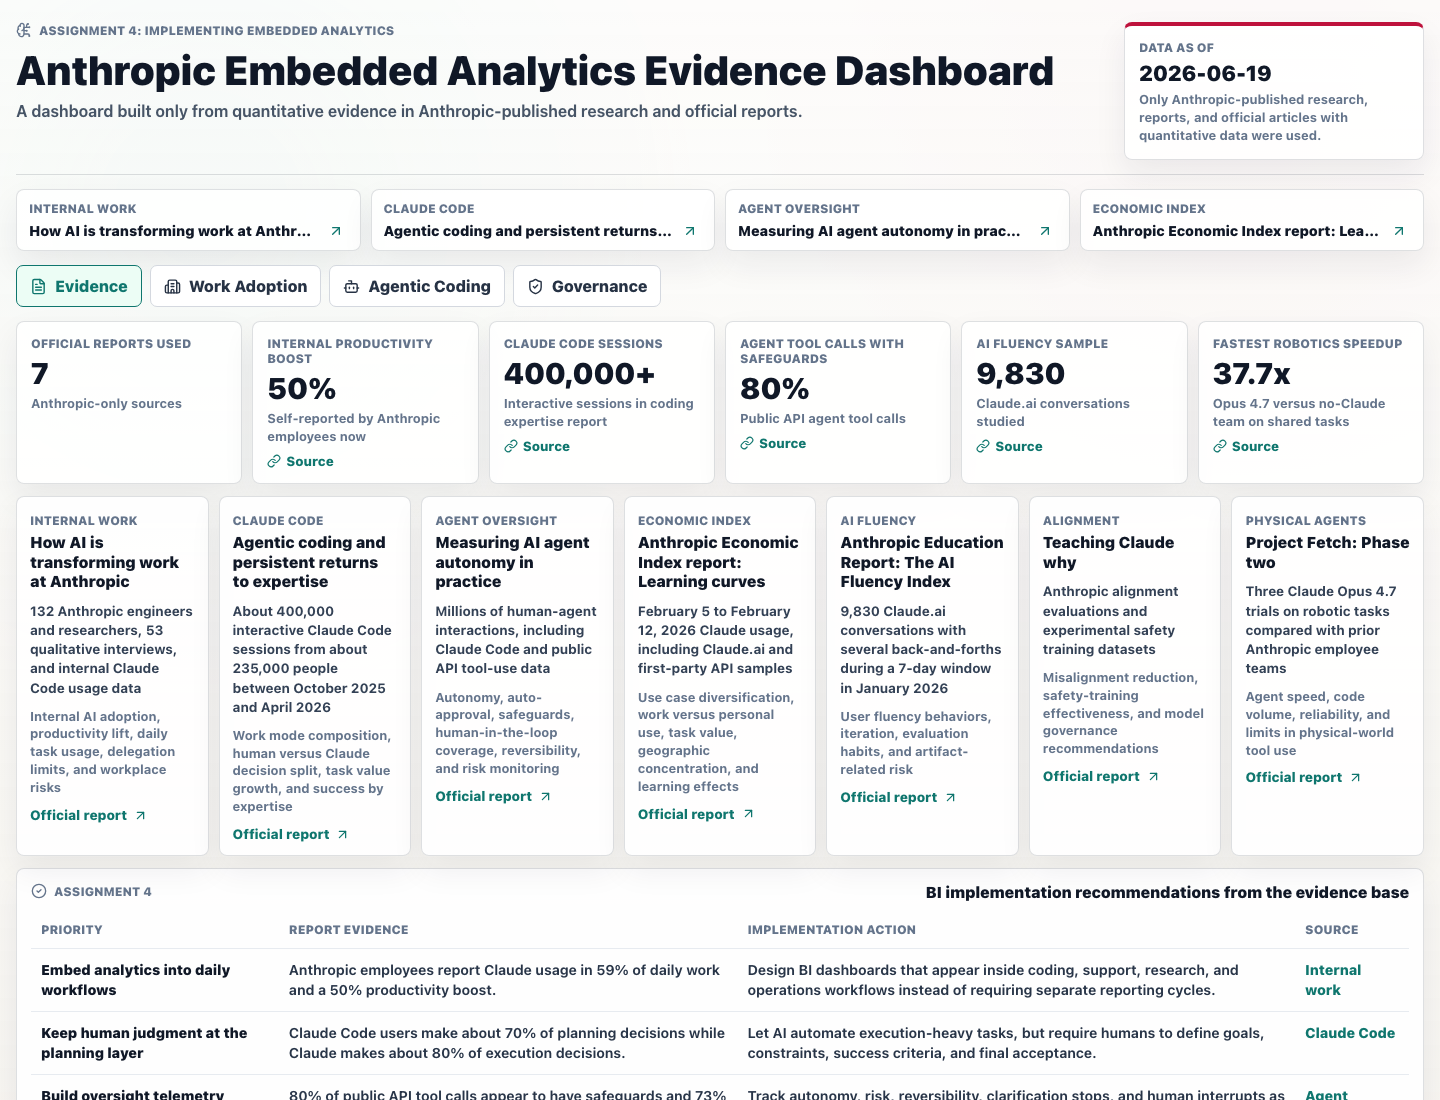
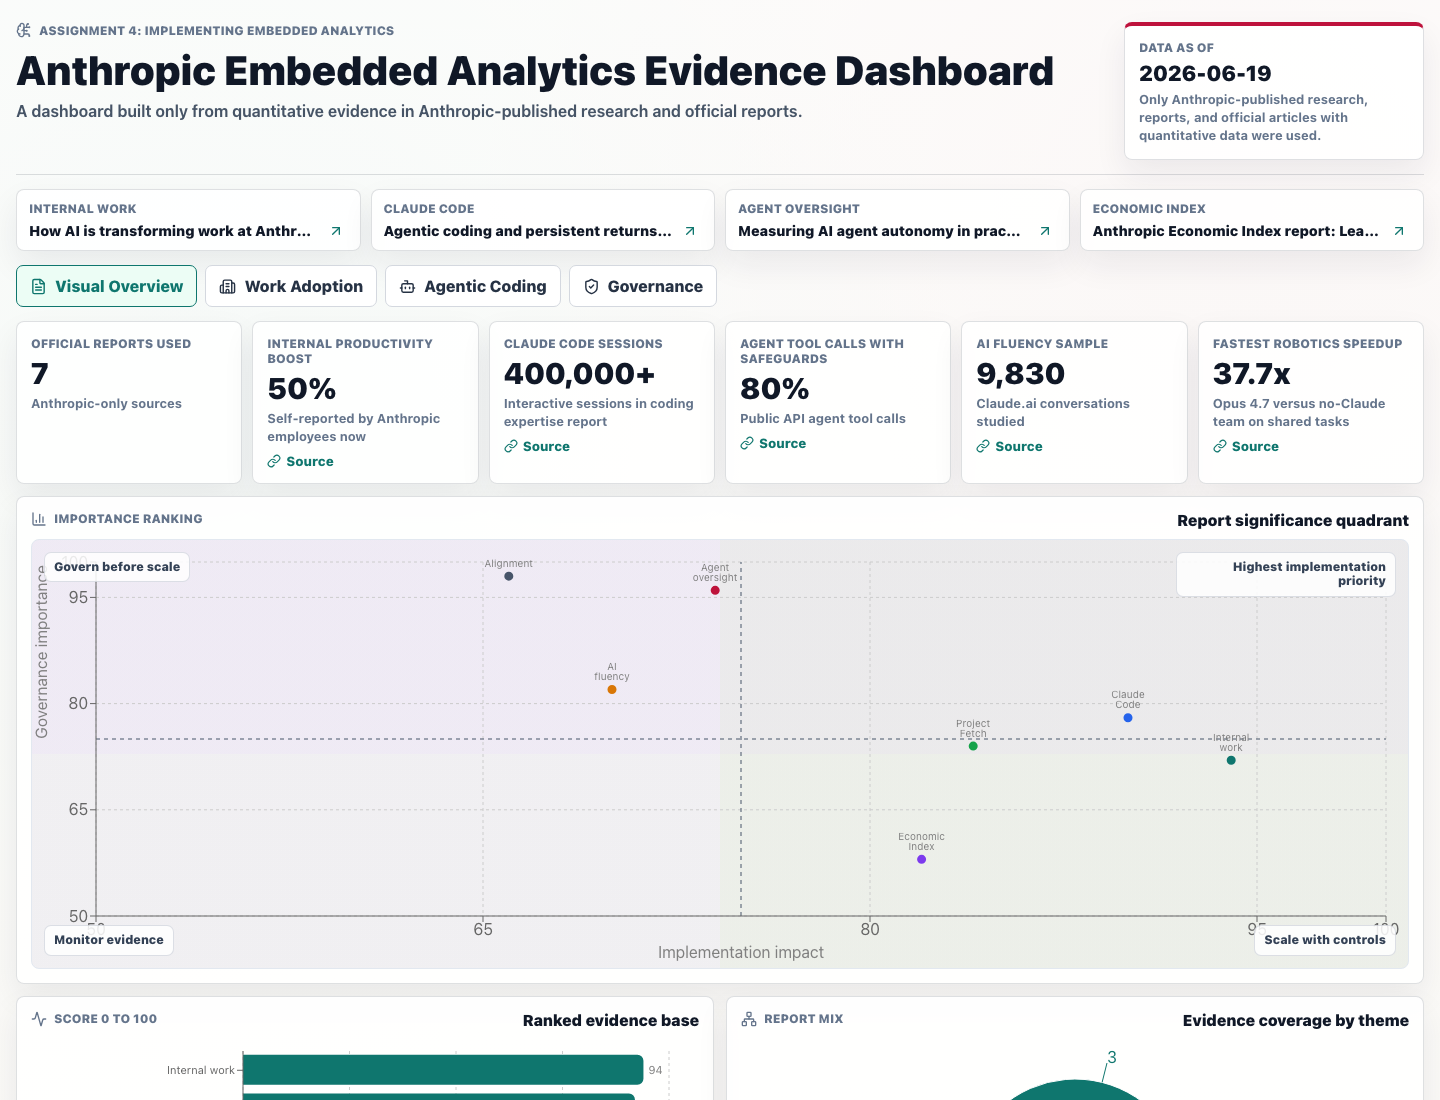
Update assignment 4 dashboard visuals

diff --git a/docs/assignment-4/index.html b/docs/assignment-4/index.html
@@ -4,8 +4,8 @@
     <meta charset="UTF-8" />
     <meta name="viewport" content="width=device-width, initial-scale=1.0" />
     <title>Anthropic Embedded Analytics Dashboard</title>
-    <script type="module" crossorigin src="./assets/index-DF_yYY9s.js"></script>
-    <link rel="stylesheet" crossorigin href="./assets/index-CAR4Z17u.css">
+    <script type="module" crossorigin src="./assets/index-CjJVVIrM.js"></script>
+    <link rel="stylesheet" crossorigin href="./assets/index-CgHR1DeJ.css">
   </head>
   <body>
     <div id="root"></div>

diff --git a/docs/assignment-4/assets/index-CgHR1DeJ.css b/docs/assignment-4/assets/index-CgHR1DeJ.css
@@ -1,0 +1,1 @@
+:root{color:#172033;background:#f6f4ef;font-family:Inter,ui-sans-serif,system-ui,-apple-system,BlinkMacSystemFont,Segoe UI,sans-serif;font-synthesis:none;text-rendering:optimizeLegibility;-webkit-font-smoothing:antialiased}*{box-sizing:border-box}html,body,#root{min-width:320px;min-height:100vh;overflow-x:hidden}body{margin:0;background:linear-gradient(180deg,#ffffffc2,#f6f4effa),radial-gradient(circle at 14% 16%,rgba(20,184,166,.12),transparent 30%),radial-gradient(circle at 86% 8%,rgba(190,18,60,.08),transparent 28%)}button,input,select{font:inherit}button{cursor:pointer}a{color:#0f766e;font-weight:850;text-decoration:none}a:hover{text-decoration:underline}h1,p{margin:0}.shell{width:min(1520px,calc(100% - 32px));margin:0 auto;padding:22px 0 36px}.loading-shell{min-height:100vh;display:grid;place-items:center;align-content:center;gap:12px;color:#172033;font-weight:850}.spin{animation:spin 1s linear infinite;color:#0f766e}@keyframes spin{to{transform:rotate(360deg)}}.topbar{display:grid;grid-template-columns:minmax(0,1fr) 300px;gap:14px;align-items:stretch;padding-bottom:14px;border-bottom:1px solid rgba(23,32,51,.14)}.title-block{min-width:0}.eyebrow,.date-card span,.kpi-card span,.panel-head span,.report-card span,.source-pill span,.mini-metric span{display:inline-flex;align-items:center;gap:7px;color:#64748b;font-size:.76rem;font-weight:900;letter-spacing:0;text-transform:uppercase}h1{margin-top:8px;color:#101827;font-size:2.55rem;line-height:1.03;font-weight:920;overflow-wrap:break-word}.title-block p{max-width:900px;margin-top:8px;color:#465466;font-size:1rem;line-height:1.5;font-weight:650;overflow-wrap:break-word}.date-card,.kpi-card,.panel,.report-card,.source-pill{border:1px solid rgba(23,32,51,.14);border-radius:8px;background:#ffffffeb;box-shadow:0 14px 32px #17203312}.date-card{display:grid;align-content:center;gap:5px;border-top:4px solid #be123c;padding:14px}.date-card strong{color:#101827;font-size:1.35rem;font-weight:920}.date-card small,.kpi-card small,.report-card small{color:#64748b;font-size:.8rem;line-height:1.4;font-weight:720;overflow-wrap:break-word}.source-strip{display:grid;grid-template-columns:repeat(4,minmax(0,1fr));gap:10px;margin:14px 0}.source-pill{min-width:0;display:grid;grid-template-columns:minmax(0,1fr) 20px;gap:6px 10px;align-items:center;padding:11px 12px}.source-pill span{grid-column:1 / -1}.source-pill strong{min-width:0;color:#101827;font-size:.88rem;line-height:1.25;font-weight:900;white-space:nowrap;overflow:hidden;text-overflow:ellipsis}.source-pill svg{color:#0f766e}.view-tabs{display:flex;flex-wrap:wrap;gap:8px;margin:0 0 14px}.view-tabs button{min-height:42px;border:1px solid #d4d8df;border-radius:7px;background:#fff;color:#263244;display:inline-flex;align-items:center;justify-content:center;gap:8px;padding:0 13px;font-weight:850}.view-tabs button.active{border-color:#0f766e;background:#ecfdf5;color:#0f766e}.kpi-grid{display:grid;grid-template-columns:repeat(6,minmax(0,1fr));gap:10px;margin-bottom:12px}.kpi-card{min-width:0;min-height:148px;display:grid;align-content:start;gap:7px;padding:14px}.kpi-card strong{color:#101827;font-size:1.86rem;line-height:1;font-weight:920}.kpi-card a{margin-top:auto;display:inline-flex;align-items:center;gap:5px;font-size:.82rem}.source-grid{display:grid;grid-template-columns:repeat(7,minmax(0,1fr));gap:10px;margin-bottom:12px}.report-card{min-width:0;min-height:250px;display:grid;gap:10px;align-content:start;padding:13px}.report-card strong{display:block;margin-top:5px;color:#101827;font-size:.98rem;line-height:1.26;font-weight:920}.report-card p{color:#334155;font-size:.84rem;line-height:1.42;font-weight:700}.report-card a{margin-top:auto;display:inline-flex;align-items:center;gap:6px;font-size:.84rem}.content-grid{display:grid;grid-template-columns:repeat(2,minmax(0,1fr));gap:12px}.visual-grid{display:grid;grid-template-columns:repeat(2,minmax(0,1fr));gap:12px;margin-bottom:12px}.panel{min-width:0;padding:14px}.panel.wide,.visual-grid .wide{grid-column:1 / -1}.panel-head{display:flex;align-items:start;justify-content:space-between;gap:12px;margin-bottom:10px}.panel-head strong{color:#101827;font-size:.98rem;font-weight:920;text-align:right}.chart-frame{width:100%;height:345px}.chart-frame.compact{height:320px}.pie-frame{width:100%;height:342px}.pie-frame.split{height:320px}.pie-frame.decision{height:330px}.quadrant-stage{position:relative;width:100%;height:430px;overflow:hidden;border:1px solid #e2e8f0;border-radius:8px;background:linear-gradient(90deg,#2563eb0f 0 50%,#0f766e12 50% 100%),linear-gradient(180deg,#be123c0d 0 50%,#d977060d 50% 100%),#fff}.quadrant-label{position:absolute;z-index:1;max-width:220px;border:1px solid rgba(100,116,139,.22);border-radius:7px;background:#ffffffdb;color:#334155;padding:7px 9px;font-size:.76rem;font-weight:900;line-height:1.2;pointer-events:none}.quadrant-label.top-left{top:12px;left:12px}.quadrant-label.top-right{top:12px;right:12px;text-align:right}.quadrant-label.bottom-left{bottom:12px;left:12px}.quadrant-label.bottom-right{right:12px;bottom:12px;text-align:right}.decision-visual{display:grid;grid-template-columns:minmax(0,1fr) minmax(280px,.72fr);gap:12px;align-items:center}.decision-pie-grid{display:grid;grid-template-columns:repeat(2,minmax(0,1fr));gap:10px}.decision-pie-card{min-width:0;display:grid;gap:8px;border:1px solid #dbe1e8;border-radius:8px;background:#fff;padding:12px}.decision-pie-card>strong{color:#101827;font-size:.9rem;font-weight:900;text-align:center}.visual-callout{display:grid;gap:10px;border:1px solid #dbe1e8;border-radius:8px;background:#fbfcfd;padding:14px}.visual-callout strong{color:#101827;font-size:1rem;font-weight:920}.visual-callout p{color:#334155;font-size:.9rem;line-height:1.48;font-weight:700}.visual-legend{display:grid;gap:7px}.visual-legend span{min-width:0;display:flex;align-items:center;gap:8px;color:#475569;font-size:.82rem;font-weight:800}.visual-legend i{flex:0 0 10px;width:10px;height:10px;border-radius:999px}.chart-tooltip{min-width:180px;display:grid;gap:4px;border:1px solid #d4d8df;border-radius:7px;background:#fffffff7;box-shadow:0 12px 28px #17203321;padding:9px 10px}.chart-tooltip strong{color:#101827;font-size:.9rem}.chart-tooltip span{color:#475569;font-size:.82rem;font-weight:760}.chart-tooltip small{color:#64748b;font-size:.76rem;font-weight:820}.metric-pair-grid{display:grid;grid-template-columns:repeat(2,minmax(0,1fr));gap:10px}.mini-metric{min-height:94px;display:grid;align-content:center;gap:7px;border:1px solid #dbe1e8;border-radius:8px;background:#fbfcfd;padding:12px}.mini-metric strong{font-size:1.52rem;line-height:1;font-weight:920}.table-wrap{overflow-x:auto}table{width:100%;min-width:1050px;border-collapse:collapse}th,td{border-bottom:1px solid #e7ebf0;padding:11px 10px;text-align:left;vertical-align:top;font-size:.88rem}th{color:#64748b;font-size:.76rem;font-weight:920;text-transform:uppercase}td{color:#283548;line-height:1.42;font-weight:650}td strong{color:#101827;font-weight:900}@media(max-width:1320px){.kpi-grid,.source-grid{grid-template-columns:repeat(3,minmax(0,1fr))}}@media(max-width:1080px){.topbar,.content-grid,.visual-grid,.decision-visual{grid-template-columns:1fr}.date-card{max-width:460px}.source-strip{grid-template-columns:repeat(2,minmax(0,1fr))}}@media(max-width:760px){.shell{width:min(calc(100% - 20px),370px);margin:0 0 0 10px;padding-top:12px}h1{font-size:1.8rem;line-height:1.08}.source-strip,.kpi-grid,.source-grid,.metric-pair-grid,.decision-pie-grid{grid-template-columns:1fr}.title-block,.date-card,.source-pill,.panel,.kpi-card{max-width:100%}.source-pill strong{white-space:normal}.view-tabs{display:grid;grid-template-columns:repeat(2,minmax(0,1fr))}.report-card{min-height:0}.panel-head{display:grid}.panel-head strong{text-align:left}.chart-frame,.chart-frame.compact,.pie-frame,.quadrant-stage{height:310px}.quadrant-label{max-width:136px;font-size:.66rem}.view-tabs button{min-width:0;padding:0 8px}}